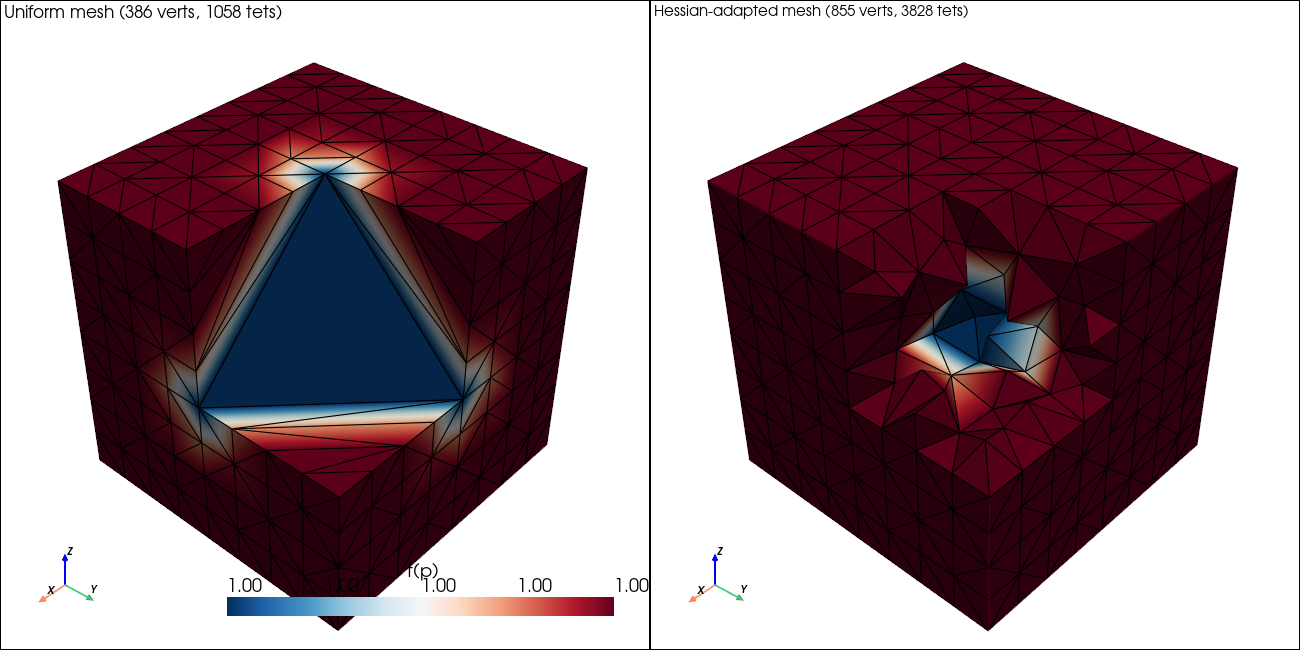
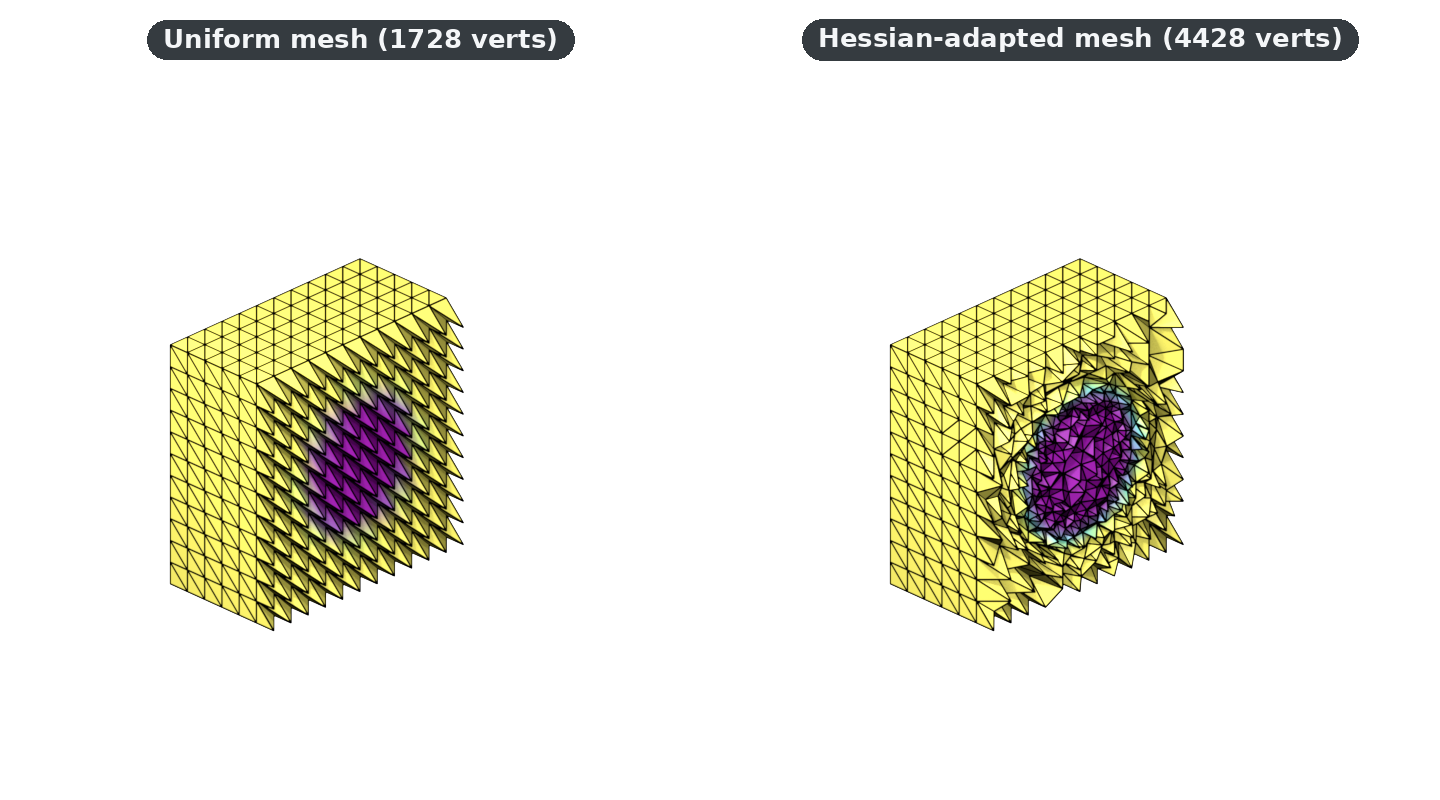
docs(examples): transparent backgrounds + Blender-rendered 3D Hessian
- Restore the 3D L-bracket PyVista example so users have a runnable
  script for the case (the canonical animated GIF is rendered
  separately at higher fidelity); the script now drives the animation
  interactively rather than overwriting the committed GIF.
- Switch the 2D elasticity GIF to a transparent-background pipeline:
  matplotlib renders each frame to a transparent PNG, then PIL stitches
  them into a GIF whose palette reserves one slot for fully transparent
  pixels (matplotlib's PillowWriter bakes in the figure facecolour and
  cannot do this).
- Save the 2D Hessian PNG with transparent figure + axes backgrounds.
- Replace the 3D Hessian PNG with a Blender render: the cube is sliced
  in half along x=0.5 so the cut face passes through the sphere's
  centre, exposing the analytic front clearly. Uniform mesh shows a
  blocky cross-section, the Hessian-adapted mesh shows refinement
  concentrating along the front. Pill-style labels stay legible on
  light or dark themes; rendering script not committed.

diff --git a/examples/mmg3d/elasticity_propagation.py b/examples/mmg3d/elasticity_propagation.py
@@ -1,0 +1,256 @@
+# /// script
+# requires-python = ">=3.10"
+# dependencies = [
+#     "mmgpy[fem]",
+#     "numpy",
+#     "pyvista",
+#     "scipy",
+# ]
+#
+# [tool.uv.sources]
+# mmgpy = { path = "../.." }
+# ///
+"""Animate Laplacian vs elasticity propagation on a 3D L-bracket.
+
+The geometry is a 3D L-bracket: the 2D L from
+``examples/mmg2d/elasticity_propagation.py`` extruded in z. The free
+tip of the foot is pinned and the top of the post is pulled upward.
+The prescribed boundary displacement is propagated to the interior
+using two methods:
+
+* ``"laplacian"``: solves a Laplace equation on the mesh graph (default,
+  no extra dependency). Has no notion of bending: along each component
+  the field is harmonic, which produces a rigid-looking pivot of the
+  bracket.
+* ``"elasticity"``: solves a linear elasticity problem on the mesh via
+  the optional ``fedoo`` backend. Captures the cantilever bending
+  through the corner: the post curves backward at the re-entrant corner
+  and the foot bows visibly.
+
+``fedoo`` is required for the elasticity panel, hence the
+``mmgpy[fem]`` extra. The committed ``elasticity_propagation.gif``
+next to this file is rendered at higher fidelity by a separate script
+and is the canonical artefact; this example drives the animation
+interactively in a PyVista window instead of overwriting it.
+"""
+
+from __future__ import annotations
+
+import numpy as np
+import pyvista as pv
+from scipy.spatial import Delaunay
+
+import mmgpy  # noqa: F401  -- registers the .mmg accessor
+from mmgpy import polydata_from_2d_triangles
+from mmgpy.lagrangian import (
+    propagate_displacement,
+    propagate_displacement_elasticity,
+)
+
+FOOT_LEN = 1.4
+POST_LEN = 1.0
+ARM_W = 0.3
+DEPTH = 0.3
+LIFT = 0.45
+
+
+def _interp(a: np.ndarray, b: np.ndarray, n: int) -> np.ndarray:
+    return np.column_stack(
+        [
+            np.linspace(a[0], b[0], n, endpoint=False),
+            np.linspace(a[1], b[1], n, endpoint=False),
+        ],
+    )
+
+
+def _make_2d_l(target_h: float) -> tuple[np.ndarray, np.ndarray]:
+    """Triangulated 2D L, remeshed by MMG for clean grading."""
+    corners = [
+        np.array([0.0, 0.0]),
+        np.array([FOOT_LEN, 0.0]),
+        np.array([FOOT_LEN, ARM_W]),
+        np.array([ARM_W, ARM_W]),
+        np.array([ARM_W, POST_LEN]),
+        np.array([0.0, POST_LEN]),
+    ]
+    edges = [
+        _interp(a, b, max(2, round(np.linalg.norm(b - a) / target_h)))
+        for a, b in zip(corners, [*corners[1:], corners[0]], strict=True)
+    ]
+    seed = np.vstack(edges).astype(np.float64)
+    tri = Delaunay(seed)
+    cx, cy = seed[tri.simplices].mean(axis=1).T
+    in_foot = (cx >= 0.0) & (cx <= FOOT_LEN) & (cy >= 0.0) & (cy <= ARM_W)
+    in_post = (cx >= 0.0) & (cx <= ARM_W) & (cy >= 0.0) & (cy <= POST_LEN)
+    triangles = tri.simplices[in_foot | in_post].astype(np.int32)
+
+    pv_mesh = polydata_from_2d_triangles(seed, triangles)
+    remeshed = pv_mesh.mmg.remesh(
+        hmax=target_h,
+        hmin=target_h * 0.45,
+        verbose=False,
+    )
+    return (
+        np.asarray(remeshed.points[:, :2], dtype=np.float64),
+        np.asarray(remeshed.regular_faces, dtype=np.int32),
+    )
+
+
+def make_l_bracket_3d(
+    target_h: float = 0.07,
+) -> tuple[np.ndarray, np.ndarray, np.ndarray, np.ndarray]:
+    """3D L-bracket as the 2D L extruded in z, decomposed into tetrahedra."""
+    verts2d, tris2d = _make_2d_l(target_h)
+    n2d = len(verts2d)
+
+    n_layers = max(2, round(DEPTH / target_h) + 1)
+    z_levels = np.linspace(0.0, DEPTH, n_layers)
+    vertices = np.vstack(
+        [np.column_stack([verts2d, np.full(n2d, z)]) for z in z_levels],
+    ).astype(np.float64)
+
+    # Standard prism→3-tets decomposition. Sort each triangle's vertex indices
+    # so adjacent prisms agree on the diagonal of each shared quad face,
+    # which keeps the tet mesh conformal.
+    tets: list[list[int]] = []
+    for k in range(n_layers - 1):
+        lo = k * n2d
+        hi = (k + 1) * n2d
+        for raw in tris2d:
+            a, b, c = sorted(int(i) for i in raw)
+            tets.append([a + lo, b + lo, c + lo, c + hi])
+            tets.append([a + lo, b + lo, c + hi, b + hi])
+            tets.append([a + lo, b + hi, c + hi, a + hi])
+    elements = np.asarray(tets, dtype=np.int32)
+
+    fixed_2d = np.isclose(verts2d[:, 0], FOOT_LEN)
+    loaded_2d = np.isclose(verts2d[:, 1], POST_LEN) & (verts2d[:, 0] <= ARM_W + 1e-9)
+    fixed_mask = np.tile(fixed_2d, n_layers)
+    loaded_mask = np.tile(loaded_2d, n_layers)
+    return vertices, elements, fixed_mask, loaded_mask
+
+
+def main() -> None:
+    """Compute both propagated displacement fields and save an animated GIF."""
+    vertices, elements, fixed_mask, loaded_mask = make_l_bracket_3d()
+    print(f"3D L mesh: {len(vertices)} vertices, {len(elements)} tetrahedra")
+
+    boundary = fixed_mask | loaded_mask
+    bdy_disp = np.zeros_like(vertices)
+    bdy_disp[loaded_mask, 1] = LIFT
+
+    full_lap = propagate_displacement(vertices, elements, boundary, bdy_disp)
+    try:
+        full_ela = propagate_displacement_elasticity(
+            vertices,
+            elements,
+            boundary,
+            bdy_disp,
+            nu=0.3,
+        )
+        ela_available = True
+    except ImportError as exc:
+        print(f"Elasticity propagation unavailable ({exc}); right panel will skip.")
+        full_ela = np.zeros_like(full_lap)
+        ela_available = False
+
+    mag_lap = np.linalg.norm(full_lap, axis=1)
+    mag_ela = np.linalg.norm(full_ela, axis=1) if ela_available else mag_lap
+    vmax = float(max(mag_lap.max(), mag_ela.max()))
+
+    n_frames = 60
+    phase = np.linspace(0.0, 2.0 * np.pi, n_frames, endpoint=False)
+    ts = 0.5 * (1.0 - np.cos(phase))
+
+    cells = {pv.CellType.TETRA: elements}
+    grid_lap = pv.UnstructuredGrid(cells, vertices.copy())
+    grid_lap["disp"] = np.zeros(len(vertices))
+    grid_ela = pv.UnstructuredGrid(cells, vertices.copy())
+    grid_ela["disp"] = np.zeros(len(vertices))
+
+    pl = pv.Plotter(shape=(1, 2), window_size=(1300, 650))
+
+    pl.subplot(0, 0)
+    pl.add_mesh(
+        grid_lap,
+        scalars="disp",
+        cmap="viridis",
+        clim=[0.0, vmax],
+        show_edges=True,
+        edge_color="black",
+        line_width=0.4,
+        scalar_bar_args={"title": "|u|"},
+    )
+    pl.add_text("Laplacian propagation", font_size=10)
+    pl.show_axes()
+
+    pl.subplot(0, 1)
+    if ela_available:
+        pl.add_mesh(
+            grid_ela,
+            scalars="disp",
+            cmap="viridis",
+            clim=[0.0, vmax],
+            show_edges=True,
+            edge_color="black",
+            line_width=0.4,
+            show_scalar_bar=False,
+        )
+        pl.add_text("Elasticity propagation (fedoo)", font_size=10)
+    else:
+        pl.add_text("fedoo not installed\n(uv add fedoo)", font_size=12)
+    pl.show_axes()
+    pl.link_views()
+
+    # Frame the camera around the worst-case deformed bounding box so the
+    # bracket stays fully visible across every frame. Tracks both methods'
+    # peak deflection.
+    peak_pts = [vertices, vertices + full_lap]
+    if ela_available:
+        peak_pts.append(vertices + full_ela)
+    all_pts = np.vstack(peak_pts)
+    margin = 0.05 * float(np.ptp(all_pts, axis=0).max())
+    bounds = (
+        all_pts[:, 0].min() - margin,
+        all_pts[:, 0].max() + margin,
+        all_pts[:, 1].min() - margin,
+        all_pts[:, 1].max() + margin,
+        all_pts[:, 2].min() - margin,
+        all_pts[:, 2].max() + margin,
+    )
+    cx, cy, cz = (
+        0.5 * (bounds[0] + bounds[1]),
+        0.5 * (bounds[2] + bounds[3]),
+        0.5 * (bounds[4] + bounds[5]),
+    )
+    diag = float(
+        np.linalg.norm(
+            [bounds[1] - bounds[0], bounds[3] - bounds[2], bounds[5] - bounds[4]],
+        ),
+    )
+    pl.camera_position = [
+        (cx + 0.4 * diag, cy - 0.5 * diag, cz + 1.5 * diag),
+        (cx, cy, cz),
+        (0.0, 1.0, 0.0),
+    ]
+    for sp in (0, 1):
+        pl.subplot(0, sp)
+        pl.reset_camera(bounds=bounds)
+
+    # Drive the animation interactively. The high-quality GIF that ships
+    # next to this script (``elasticity_propagation.gif``) is generated
+    # separately with a higher-fidelity renderer and committed as the
+    # canonical artefact, so we don't overwrite it from here.
+    pl.show(auto_close=False, interactive_update=True)
+    for t in ts:
+        grid_lap.points = vertices + t * full_lap
+        grid_lap["disp"] = t * mag_lap
+        if ela_available:
+            grid_ela.points = vertices + t * full_ela
+            grid_ela["disp"] = t * mag_ela
+        pl.update()
+    pl.close()
+
+
+if __name__ == "__main__":
+    main()

diff --git a/examples/mmg2d/elasticity_propagation.py b/examples/mmg2d/elasticity_propagation.py
@@ -34,11 +34,12 @@ The script writes ``elasticity_propagation.gif`` next to itself.
 
 from __future__ import annotations
 
+import tempfile
 from pathlib import Path
 
 import matplotlib.pyplot as plt
 import numpy as np
-from matplotlib.animation import FuncAnimation, PillowWriter
+from PIL import Image
 from scipy.spatial import Delaunay
 
 import mmgpy  # noqa: F401  -- registers the .mmg accessor
@@ -125,7 +126,7 @@ def lift_displacement(
     return disp, boundary
 
 
-def main() -> None:
+def main() -> None:  # noqa: C901
     """Compute both propagated displacement fields and save an animated GIF."""
     vertices, triangles, fixed_mask, loaded_mask = make_l_bracket()
     print(f"Mesh: {len(vertices)} vertices, {len(triangles)} triangles")
@@ -161,14 +162,20 @@ def main() -> None:
     ts = 0.5 * (1.0 - np.cos(phase))
 
     fig, axes = plt.subplots(1, 2, figsize=(11, 5.5))
+    # Transparent figure + axes so the GIF reads on light or dark themes
+    # once it's quantised below.
+    fig.patch.set_alpha(0.0)
     titles = ["Laplacian propagation", "Elasticity propagation (fedoo)"]
     for ax, title in zip(axes, titles, strict=True):
+        ax.patch.set_alpha(0.0)
         ax.set_aspect("equal")
         ax.set_xlim(-0.1, FOOT_LEN + 0.1)
         ax.set_ylim(-0.05, POST_LEN + LIFT + 0.1)
         ax.set_title(title)
         ax.set_xticks([])
         ax.set_yticks([])
+        for spine in ax.spines.values():
+            spine.set_visible(False)
     if not ela_available:
         axes[1].text(
             0.5,
@@ -209,22 +216,62 @@ def main() -> None:
             alpha=0.6,
         )
 
-    def update(frame_idx: int) -> None:
-        t = ts[frame_idx]
-        render_panel(axes[0], vertices + t * full_lap, t * mag_lap, vmax, "viridis")
-        if ela_available:
-            render_panel(
-                axes[1],
-                vertices + t * full_ela,
-                t * mag_ela,
-                vmax,
-                "viridis",
+    out_path = Path(__file__).with_suffix(".gif")
+    # Render each frame to a transparent PNG, then assemble into a GIF
+    # whose palette reserves one slot for fully transparent pixels. Goes
+    # through PIL because matplotlib's own PillowWriter bakes in the
+    # figure facecolour and ignores per-frame alpha.
+    with tempfile.TemporaryDirectory(prefix="mmg2d_anim_") as tmp:
+        tmp_dir = Path(tmp)
+        for i, t in enumerate(ts):
+            render_panel(axes[0], vertices + t * full_lap, t * mag_lap, vmax, "viridis")
+            if ela_available:
+                render_panel(
+                    axes[1],
+                    vertices + t * full_ela,
+                    t * mag_ela,
+                    vmax,
+                    "viridis",
+                )
+            fig.savefig(
+                tmp_dir / f"frame_{i:03d}.png",
+                dpi=110,
+                transparent=True,
+                bbox_inches="tight",
             )
 
-    anim = FuncAnimation(fig, update, frames=len(ts), interval=40)
-
-    out_path = Path(__file__).with_suffix(".gif")
-    anim.save(out_path, writer=PillowWriter(fps=25))
+        paths = sorted(tmp_dir.glob("frame_*.png"))
+        ref = (
+            Image.open(paths[len(paths) // 2])
+            .convert("RGBA")
+            .convert("RGB")
+            .quantize(
+                colors=255,
+                method=Image.Quantize.MEDIANCUT,
+                dither=Image.Dither.NONE,
+            )
+        )
+        gif_frames: list[Image.Image] = []
+        for p in paths:
+            rgba = Image.open(p).convert("RGBA")
+            alpha = rgba.split()[-1]
+            quant = rgba.convert("RGB").quantize(
+                palette=ref,
+                dither=Image.Dither.NONE,
+            )
+            quant.paste(255, mask=alpha.point(lambda v: 255 if v < 128 else 0))
+            quant.info["transparency"] = 255
+            gif_frames.append(quant)
+        gif_frames[0].save(
+            out_path,
+            save_all=True,
+            append_images=gif_frames[1:],
+            duration=40,
+            loop=0,
+            disposal=2,
+            transparency=255,
+            optimize=True,
+        )
     print(f"Wrote {out_path}")
 
     plt.show()

diff --git a/examples/mmg2d/hessian_adaptation.py b/examples/mmg2d/hessian_adaptation.py
@@ -113,7 +113,11 @@ def main() -> None:
 
     fig.tight_layout()
     out_path = Path(__file__).with_suffix(".png")
-    fig.savefig(out_path, dpi=130, bbox_inches="tight")
+    # Transparent figure + axes so the panel reads on light or dark themes.
+    fig.patch.set_alpha(0.0)
+    for ax in axes:
+        ax.patch.set_alpha(0.0)
+    fig.savefig(out_path, dpi=130, bbox_inches="tight", transparent=True)
     print(f"Wrote {out_path}")
     plt.show()
 